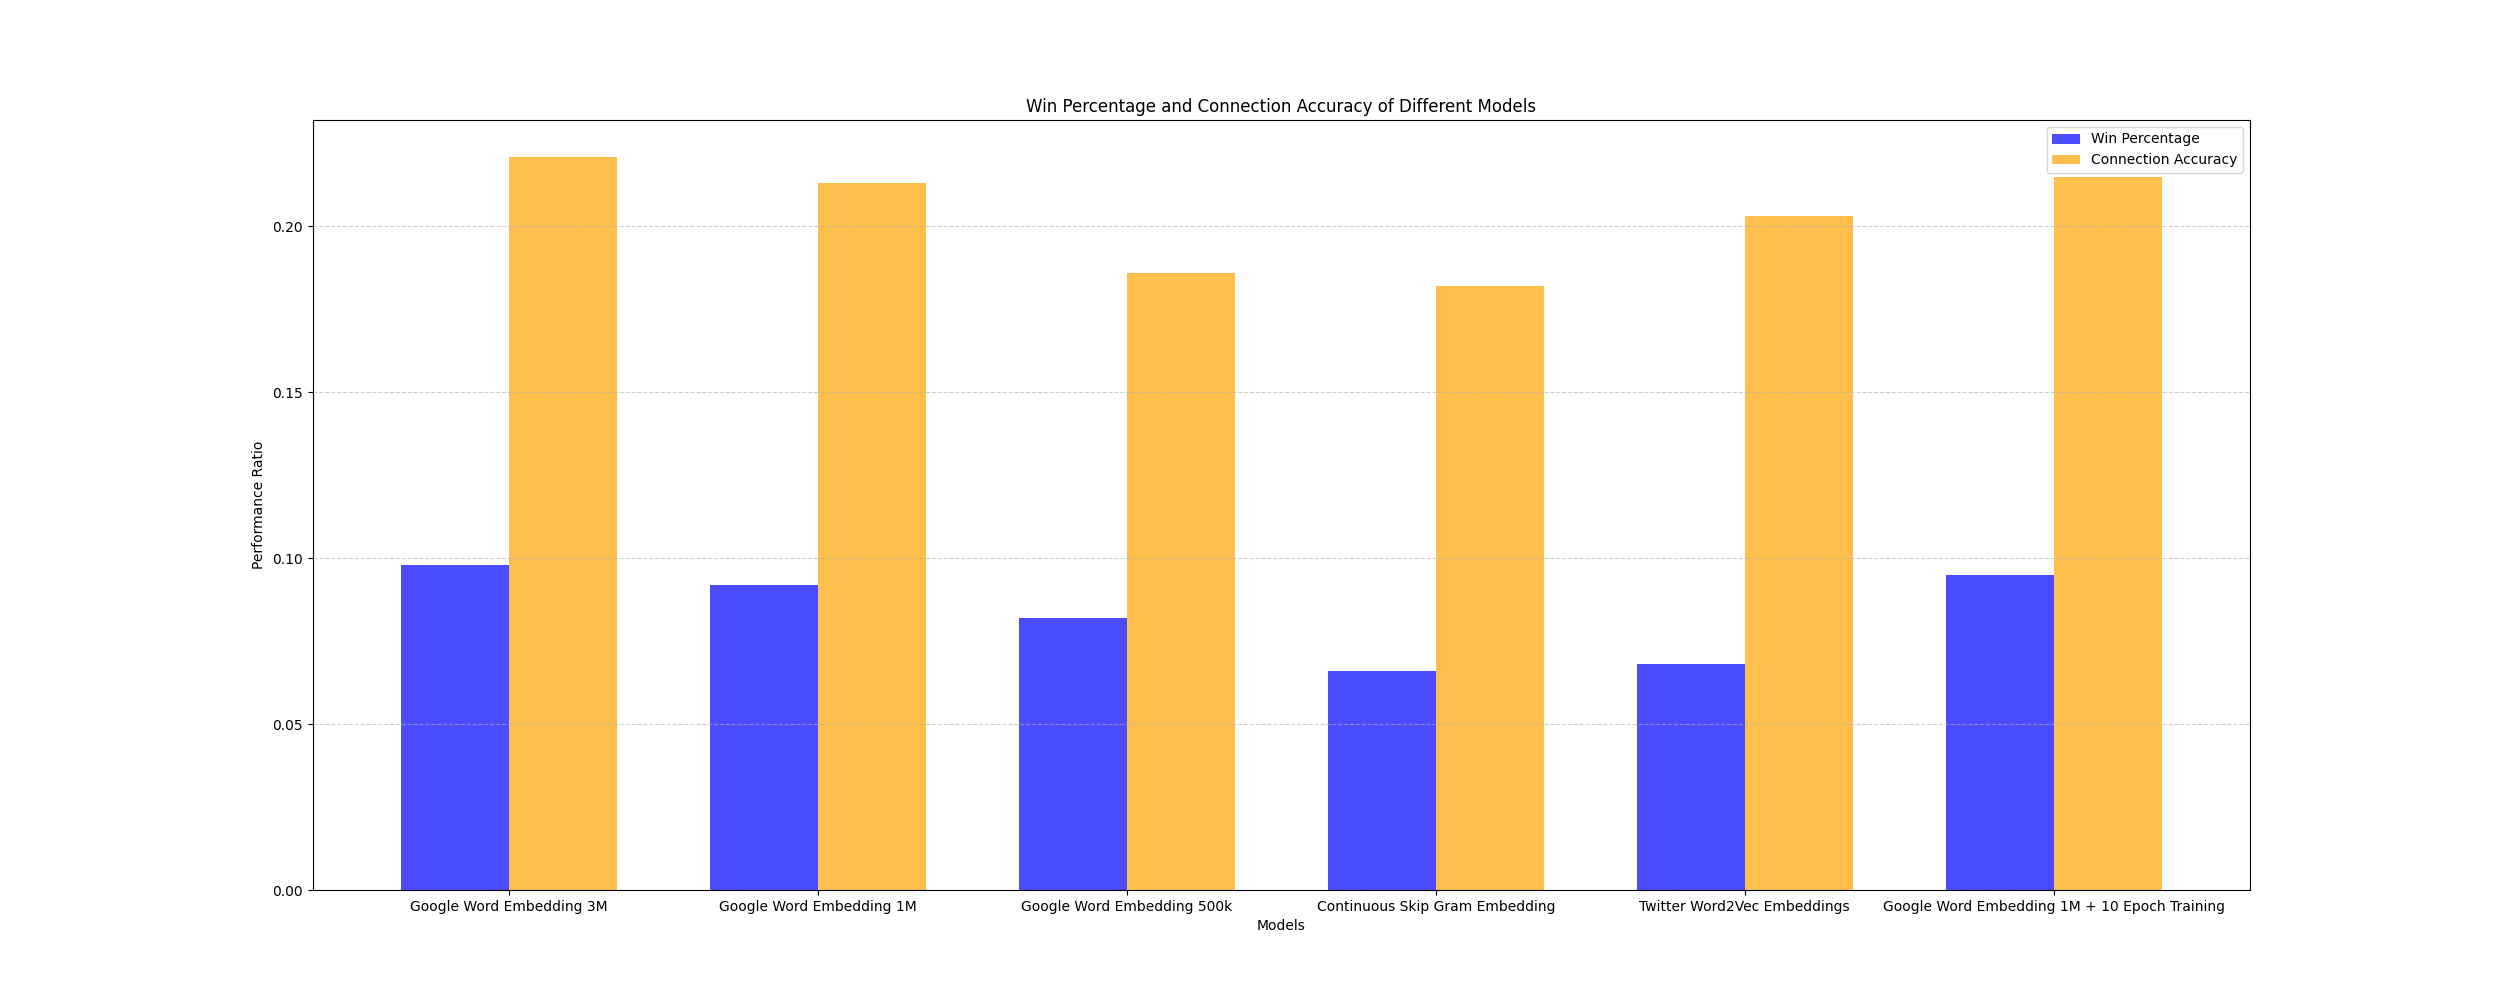
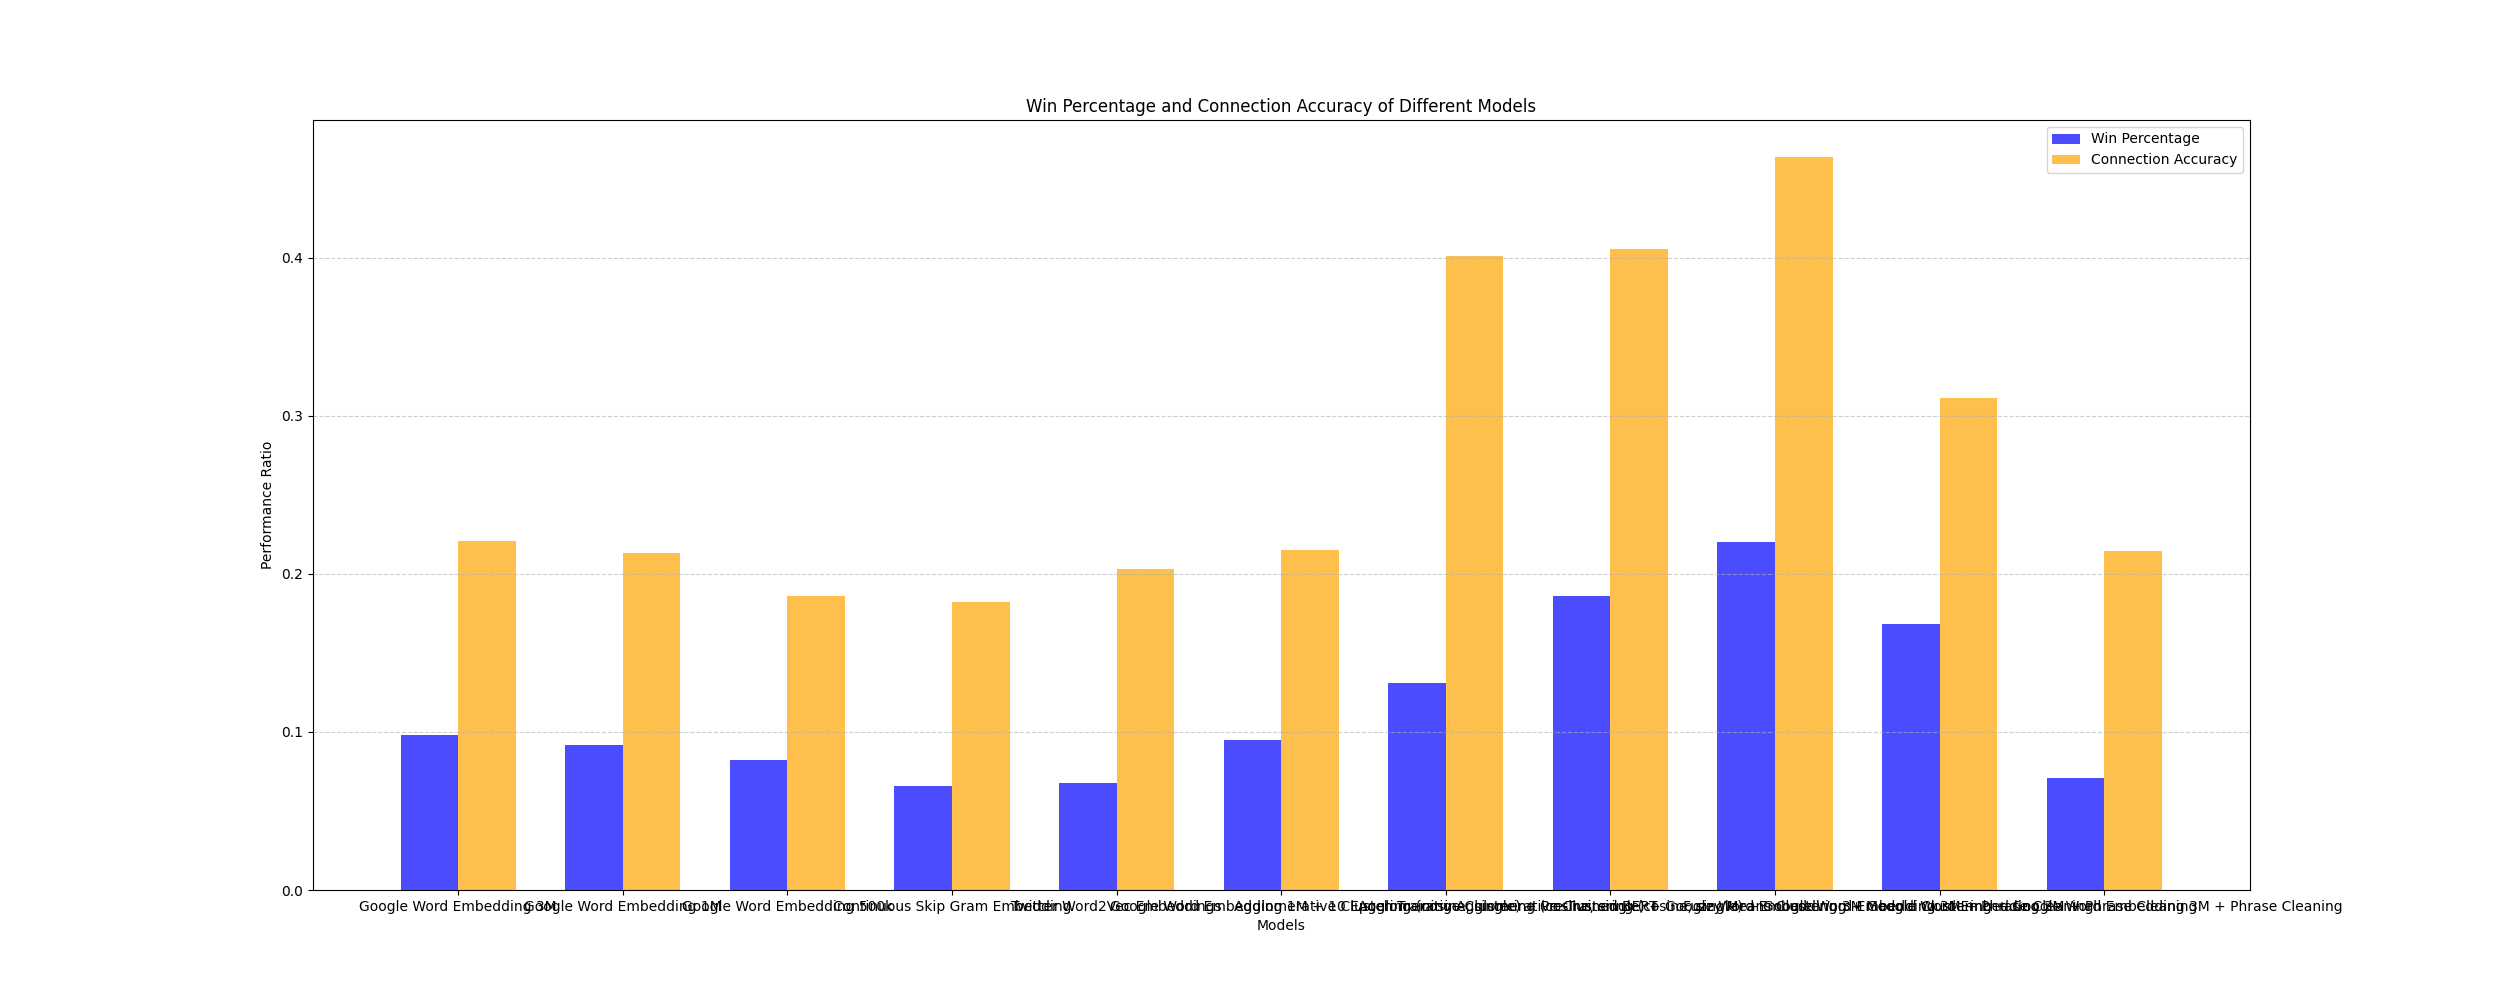
Add more models to plots in generate_plots.py

Changed region(s): [[0.156, 0.155, 0.936, 0.93], [0.0936, 0.465, 0.1248, 0.589]]

diff --git a/plots/generate_plots.py b/plots/generate_plots.py
@@ -86,9 +86,9 @@ def compare_models(model_results: list[dict]):
 
 def main():
     # Comparing different influence of training data on existing word embeddings
-    epochs = [1, 3, 5, 7, 9, 10, 11, 12, 15, 20]
-    epochs_vs_win_percentage(epochs)
-    epochs_vs_total_connections_accuracy(epochs)
+        # epochs = [1, 3, 5, 7, 9, 10, 11, 12, 15, 20]
+        # epochs_vs_win_percentage(epochs)
+        # epochs_vs_total_connections_accuracy(epochs)
 
     # Comparing different models
     model_performance = [
@@ -121,6 +121,36 @@ def main():
             'model_name': 'Google Word Embedding 1M + 10 Epoch Training',
             'win_percentage': 0.095,
             'connection_accuracy': 0.215
+        },
+        {
+            'model_name': 'CNN: 3M Google Word Embedding Trained on Archive',
+            'win_percentage': 0.00,
+            'connection_accuracy': 0.02,
+        },
+        {
+            'model_name': 'Agglomerative Clustering (cosine, single) + Pre-Trained BERT',
+            'win_percentage': 0.1311,
+            'connection_accuracy': 0.401
+        },
+        {
+            'model_name': 'Agglomerative Clustering (cosine, single) + Google Word Embedding 3M',
+            'win_percentage': 0.1858,
+            'connection_accuracy': 0.4057
+        },
+        {
+            'model_name': 'Agglomerative Clustering (cosine, single) + Google Word Embedding 3M + Phrase Cleaning',
+            'win_percentage': 0.2203,
+            'connection_accuracy': 0.4641
+        },
+        {
+            'model_name': 'Fuzzy Means Clustering + Google Word Embedding 3M + Phrase Cleaning',
+            'win_percentage': 0.1686,
+            'connection_accuracy': 0.3113
+        },
+        {
+            'model_name': 'Medoid Clustering + Google Word Embedding 3M + Phrase Cleaning',
+            'win_percentage': 0.0709,
+            'connection_accuracy': 0.2146
         },
     ]
     compare_models(model_performance)
